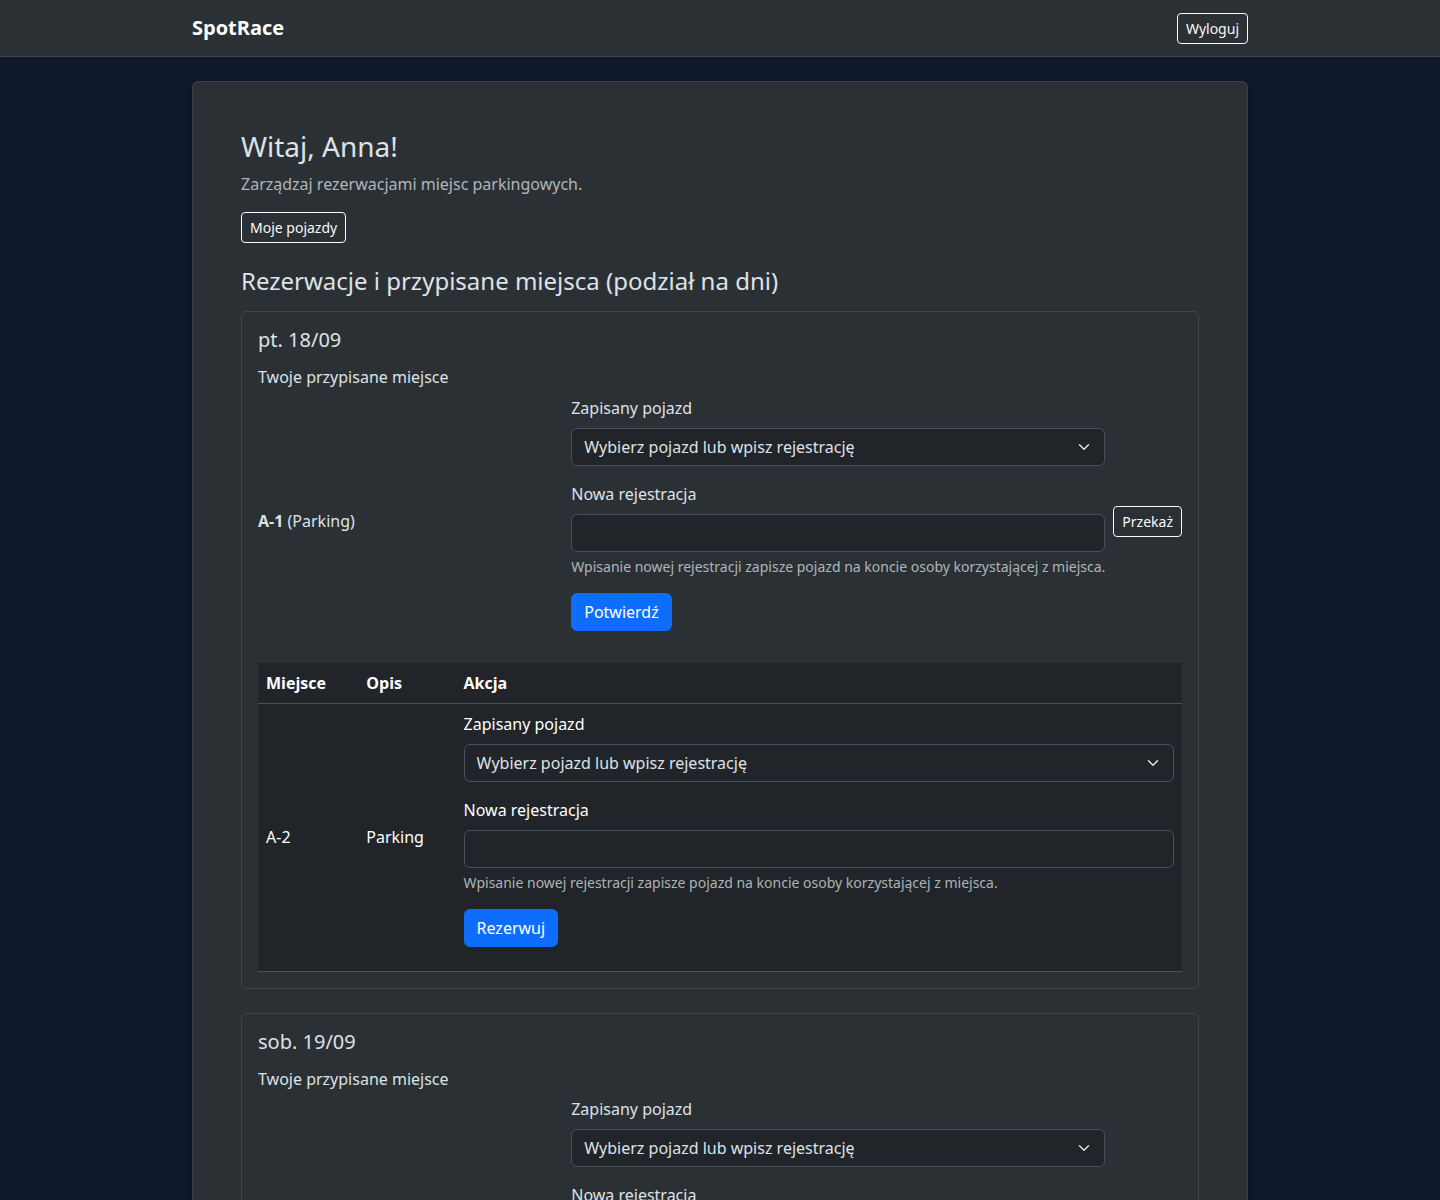
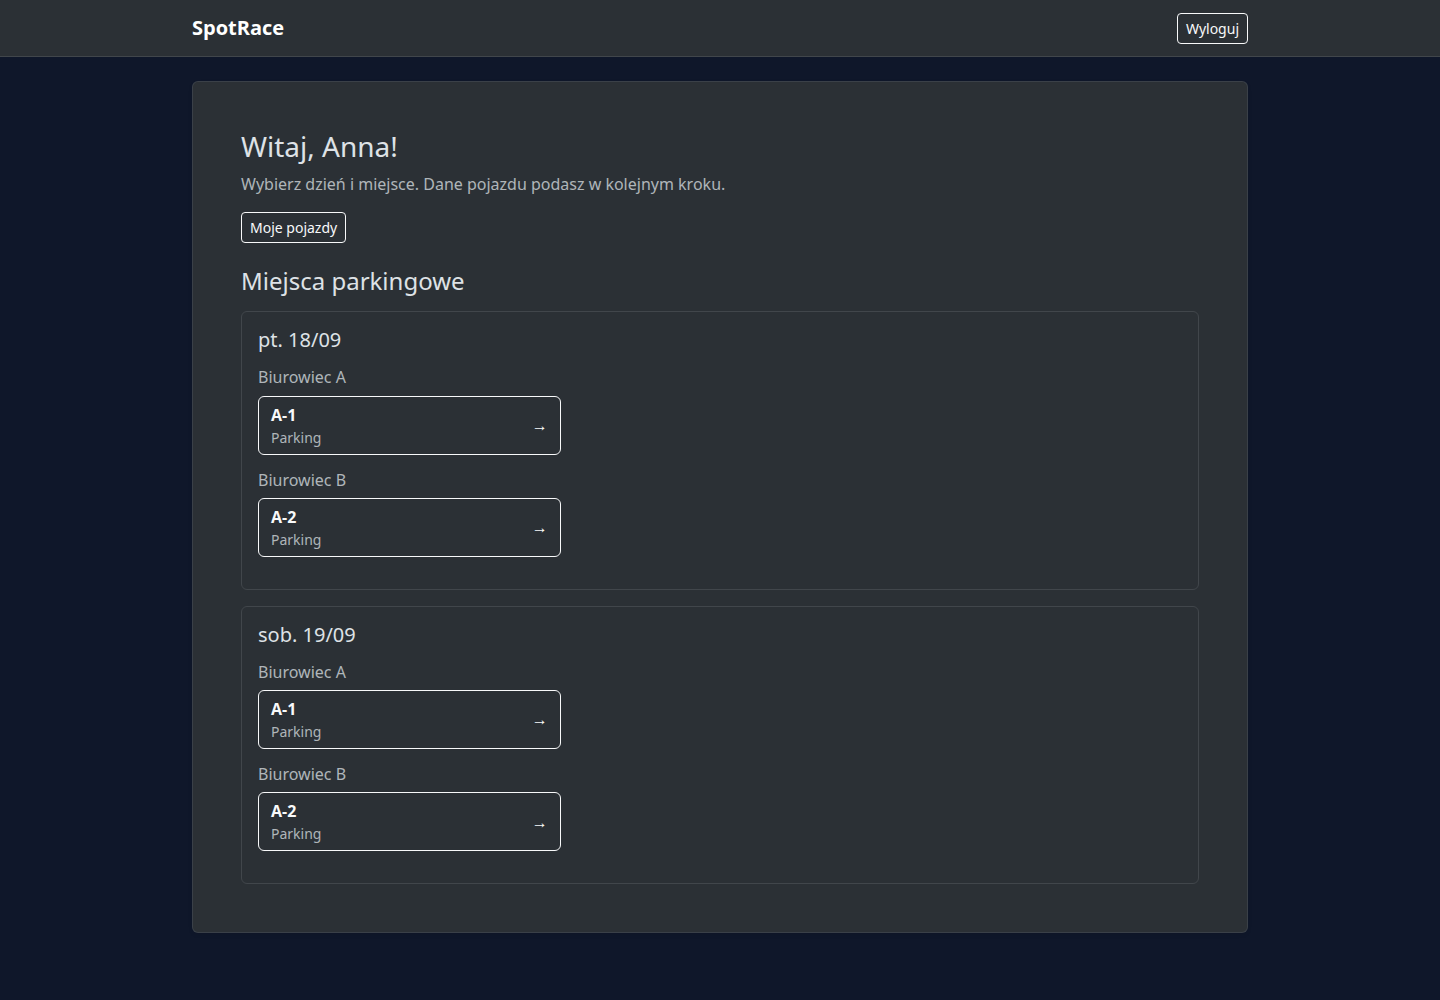
Umożliw rezerwację przypisanego miejsca po terminie

diff --git a/app/tests/Controller/ReservationControllerTest.php b/app/tests/Controller/ReservationControllerTest.php
@@ -6,6 +6,7 @@ use App\Entity\AppSetting;
 use App\Entity\Company;
 use App\Entity\CompanyParkingSpot;
 use App\Entity\CompanySetting;
+use App\Entity\ParkingLocation;
 use App\Entity\ParkingReservation;
 use App\Entity\ParkingSpot;
 use App\Entity\ParkingSpotAssignment;
@@ -176,7 +177,8 @@ class ReservationControllerTest extends WebTestCase
     {
         $own = $this->vehicle($this->user, 'OWN123');
         $other = $this->vehicle($this->recipient, 'OTHER123');
-        $values = $this->form('/reservations/free')->getPhpValues();
+        $freeForm = $this->form('/reservations/free');
+        $values = $freeForm->getPhpValues();
         foreach ([['vehicle_id' => $own->getId(), 'license_plate' => 'NEW123'], ['vehicle_id' => $other->getId()]] as $changes) {
             $this->client->request('POST', '/reservations/free', array_replace($values, $changes));
             self::assertResponseStatusCodeSame(422);
@@ -218,10 +220,11 @@ class ReservationControllerTest extends WebTestCase
 
     public function testOccupiedSpotAndExistingDailyReservationAreRechecked(): void
     {
-        $values = $this->form('/reservations/free')->getPhpValues();
+        $freeForm = $this->form('/reservations/free');
+        $values = $freeForm->getPhpValues();
         $second = $this->newSpot('A-2', $this->company);
         $this->em()->flush();
-        $this->client->submit($this->client->getCrawler()->selectButton('Rezerwuj')->form(), ['license_plate' => 'OWN123']);
+        $this->client->submit($freeForm, ['license_plate' => 'OWN123']);
         self::assertResponseRedirects();
         $this->client->request('POST', '/reservations/free', array_replace($values, ['spot_id' => $second->getId(), 'license_plate' => 'NEW123']));
         self::assertResponseStatusCodeSame(422);
@@ -231,6 +234,9 @@ class ReservationControllerTest extends WebTestCase
         $this->client->request('POST', '/reservations/free', array_replace($values, ['license_plate' => 'OTHER123']));
         self::assertResponseStatusCodeSame(422);
         self::assertSelectorTextContains('body', 'miejsce jest już zarezerwowane');
+        $this->client->request('GET', '/');
+        self::assertSelectorExists('.text-bg-danger');
+        self::assertSelectorTextContains('.text-bg-danger', 'Zarezerwowane');
         self::assertSame(1, $this->em()->getRepository(ParkingReservation::class)->count([]));
         self::assertSame(1, $this->em()->getRepository(Vehicle::class)->count([]));
     }
@@ -277,6 +283,9 @@ class ReservationControllerTest extends WebTestCase
         $this->client->request('POST', '/reservations/free', $values);
         self::assertResponseStatusCodeSame(422);
         self::assertSelectorTextContains('body', 'użyj potwierdzenia');
+        $this->client->request('GET', '/');
+        self::assertSelectorExists('.bg-primary-subtle');
+        self::assertSelectorTextContains('.bg-primary-subtle', 'przypisane');
         $this->client->loginUser($this->recipient);
         $this->client->request('POST', '/reservations/free', $values);
         self::assertResponseStatusCodeSame(422);
@@ -299,6 +308,21 @@ class ReservationControllerTest extends WebTestCase
         $this->client->submit($this->form('/reservations/free'));
         self::assertResponseRedirects();
         self::assertSame($this->recipient->getId(), $this->reservation()->getReservedForUser()->getId());
+    }
+
+    public function testAssignedOwnerCanReserveSpotAsFreeAfterCutoff(): void
+    {
+        $this->freezeTime('2026-09-18 07:00:00');
+        $this->assign($this->user);
+        $this->client->request('GET', '/');
+        self::assertSelectorNotExists('form[action="/reservations/confirm-assigned"] input[value="2026-09-18"]');
+        self::assertSelectorExists('form[action="/reservations/free"] input[value="2026-09-18"]');
+
+        $this->client->submit($this->form('/reservations/free'));
+
+        self::assertResponseRedirects();
+        self::assertSame('free', $this->reservation()->getType());
+        self::assertSame($this->user->getId(), $this->reservation()->getReservedForUser()->getId());
     }
 
     public function testLastAssignedDayIsAcceptedAndNextDayIsRejected(): void
@@ -370,8 +394,26 @@ class ReservationControllerTest extends WebTestCase
         }
         $this->em()->flush();
         $this->form('/reservations/free', '2026-09-21');
+        self::assertSelectorExists('#free-form-20260918_spot_id');
+        self::assertSelectorExists('[data-form-target="free-form-20260918"]');
         $ids = $this->client->getCrawler()->filter('input[id], select[id], button[id]')->extract(['id']);
         self::assertSame($ids, array_values(array_unique($ids)));
+    }
+
+    public function testCalendarGroupsSpotsByLocation(): void
+    {
+        $locationA = $this->location('Biurowiec A');
+        $locationB = $this->location('Biurowiec B');
+        $this->spot->setLocation($locationA);
+        $second = $this->newSpot('A-2', $this->company);
+        $second->setLocation($locationB);
+        $this->em()->flush();
+
+        $this->client->request('GET', '/');
+        self::assertSelectorTextContains('h4', 'Biurowiec A');
+        self::assertSelectorTextContains('body', 'A-1');
+        self::assertSelectorTextContains('body', 'A-2');
+        self::assertSelectorTextContains('body', 'Biurowiec B');
     }
 
     public function testEveryMutationRequiresPostCsrfAndAuthentication(): void
@@ -447,12 +489,29 @@ class ReservationControllerTest extends WebTestCase
         return $vehicle;
     }
 
+    private function location(string $name): ParkingLocation
+    {
+        $location = (new ParkingLocation())->setName($name);
+        $this->em()->persist($location);
+        $this->em()->flush();
+
+        return $location;
+    }
+
     private function form(string $action, string $date = '2026-09-18'): Form
     {
         $crawler = $this->client->request('GET', '/');
         self::assertResponseIsSuccessful();
 
-        return $crawler->filter('form[action="'.$action.'"]')->reduce(fn ($node) => $node->filter('input[name="date"]')->attr('value') === $date)->first()->form();
+        $form = $crawler->filter('form[action="'.$action.'"]')->reduce(fn ($node) => $node->filter('input[name="date"]')->attr('value') === $date)->first()->form();
+        if ('/reservations/free' === $action) {
+            $spot = $crawler->filter('[data-form-target="free-form-'.str_replace('-', '', $date).'"]')->first();
+            if ($spot->count()) {
+                $form->setValues(['spot_id' => $spot->attr('data-spot-id')]);
+            }
+        }
+
+        return $form;
     }
 
     private function reservation(string $date = '2026-09-18'): ParkingReservation

diff --git a/app/src/Service/ReservationCalendar.php b/app/src/Service/ReservationCalendar.php
@@ -85,18 +85,52 @@ class ReservationCalendar
             }
 
             $allSpots = array_values($companySpotsByDate[$dateKey] ?? []);
+            if ($assignment && !array_key_exists($assignment->getParkingSpot()->getId(), $companySpotsByDate[$dateKey] ?? [])) {
+                $allSpots[] = $assignment->getParkingSpot();
+            }
 
             if (!$isWithinFreeWindow && !$assignment && !$userReservation) {
                 continue;
             }
 
             $availableSpots = [];
-            if ($isWithinFreeWindow) {
-                $takenSpotIds = [];
-                foreach ($reservationsByDate[$dateKey] ?? [] as $reservation) {
-                    $takenSpotIds[$reservation->getParkingSpot()->getId()] = true;
-                }
+            $takenSpotIds = [];
+            foreach ($reservationsByDate[$dateKey] ?? [] as $reservation) {
+                $takenSpotIds[$reservation->getParkingSpot()->getId()] = true;
+            }
 
+            $assignedSpotIds = [];
+            foreach ($activeAssignmentsByDate[$dateKey] ?? [] as $activeAssignment) {
+                $assignedSpotIds[$activeAssignment->getParkingSpot()->getId()] = true;
+            }
+
+            $spotStatuses = [];
+            foreach ($allSpots as $spot) {
+                $spotId = $spot->getId();
+                if ($assignment?->getParkingSpot()->getId() === $spotId) {
+                    $spotStatuses[$spotId] = $this->policy->isAssignmentLockedForOthers($date, $company) ? 'assigned_own' : 'assigned_available';
+                } elseif (isset($takenSpotIds[$spotId])) {
+                    $spotStatuses[$spotId] = 'reserved';
+                } elseif (isset($assignedSpotIds[$spotId])) {
+                    $spotStatuses[$spotId] = $this->policy->isAssignmentLockedForOthers($date, $company) ? 'assigned' : 'assigned_available';
+                } else {
+                    $spotStatuses[$spotId] = 'available';
+                }
+            }
+
+            $locationsByKey = [];
+            foreach ($allSpots as $spot) {
+                $location = $spot->getLocation();
+                $locationKey = $location?->getId() ?? 'without-location';
+                $locationsByKey[$locationKey] ??= [
+                    'name' => $location?->getName() ?? 'Bez lokalizacji',
+                    'spots' => [],
+                ];
+                $locationsByKey[$locationKey]['spots'][] = $spot;
+            }
+            uasort($locationsByKey, static fn (array $left, array $right): int => strnatcasecmp($left['name'], $right['name']));
+
+            if ($isWithinFreeWindow) {
                 $lockedSpotIds = [];
                 foreach ($activeAssignmentsByDate[$dateKey] ?? [] as $activeAssignment) {
                     $spotId = $activeAssignment->getParkingSpot()->getId();
@@ -106,7 +140,8 @@ class ReservationCalendar
                 }
 
                 foreach ($allSpots as $spot) {
-                    if (isset($takenSpotIds[$spot->getId()]) || isset($lockedSpotIds[$spot->getId()]) || $assignment?->getParkingSpot()->getId() === $spot->getId()) {
+                    $isOwnAssignedSpot = $assignment?->getParkingSpot()->getId() === $spot->getId();
+                    if (isset($takenSpotIds[$spot->getId()]) || isset($lockedSpotIds[$spot->getId()]) || ($isOwnAssignedSpot && $this->policy->isAssignmentLockedForOthers($date, $company))) {
                         continue;
                     }
                     $availableSpots[] = $spot;
@@ -124,6 +159,9 @@ class ReservationCalendar
                 'canReserveFree' => $isWithinFreeWindow && !$userReservation,
                 'canReleaseReservation' => $userReservation && $this->policy->canReleaseReservation($date, $company),
                 'availableSpots' => $availableSpots,
+                'spots' => $allSpots,
+                'locations' => array_values($locationsByKey),
+                'spotStatuses' => $spotStatuses,
             ];
         }
 

diff --git a/app/src/Controller/HomeController.php b/app/src/Controller/HomeController.php
@@ -25,18 +25,13 @@ class HomeController extends AbstractController
             $data = new ReservationData();
             $data->date = $day['date']->format('Y-m-d');
             if ($day['canManageAssigned']) {
-                $day['confirmForm'] = $forms->view($forms->create(ConfirmReservationType::class, $user, clone $data, $vehicles), 'confirm_'.$data->date);
+                $day['confirmForm'] = $forms->view($forms->create(ConfirmReservationType::class, $user, clone $data, $vehicles), 'confirm-form-'.str_replace('-', '', $data->date));
             }
             if ($day['canReleaseReservation']) {
                 $day['releaseForm'] = $forms->view($forms->create(ReleaseReservationType::class, $user, clone $data), 'release_'.$data->date);
             }
-            $day['freeForms'] = [];
-            if ($day['canReserveFree']) {
-                foreach ($day['availableSpots'] as $spot) {
-                    $spotData = clone $data;
-                    $spotData->spotId = $spot->getId();
-                    $day['freeForms'][$spot->getId()] = $forms->view($forms->create(FreeReservationType::class, $user, $spotData, $vehicles), 'free_'.$data->date.'_'.$spot->getId());
-                }
+            if ($day['canReserveFree'] && [] !== $day['availableSpots']) {
+                $day['freeForm'] = $forms->view($forms->create(FreeReservationType::class, $user, clone $data, $vehicles), 'free-form-'.str_replace('-', '', $data->date));
             }
         }
         unset($day);

diff --git a/app/src/Form/ReservationVehicleType.php b/app/src/Form/ReservationVehicleType.php
@@ -30,7 +30,7 @@ class ReservationVehicleType extends AbstractType
                 'property_path' => 'vehicleId',
                 'label' => 'Zapisany pojazd',
                 'choices' => $options['vehicle_choices'],
-                'placeholder' => 'Wybierz pojazd lub wpisz rejestrację',
+                'placeholder' => false,
                 'required' => false,
                 'invalid_message' => 'Nieprawidłowy pojazd.',
             ])
@@ -53,7 +53,13 @@ class ReservationVehicleType extends AbstractType
                 return;
             }
             $hasPlate = '' !== trim($data->licensePlate ?? '');
-            if ($data->vehicleId && $hasPlate) {
+            $otherVehicle = '__other__' === $data->vehicleId;
+            if ($otherVehicle) {
+                $data->vehicleId = null;
+            }
+            if ($otherVehicle && !$hasPlate) {
+                $event->getForm()->addError(new \Symfony\Component\Form\FormError('Podaj numer nowego pojazdu.'));
+            } elseif ($data->vehicleId && $hasPlate) {
                 $event->getForm()->addError(new \Symfony\Component\Form\FormError('Wybierz zapisany pojazd albo wpisz nową rejestrację.'));
             } elseif ($options['plate_required'] && !$data->vehicleId && !$hasPlate) {
                 $event->getForm()->addError(new \Symfony\Component\Form\FormError('Podaj numer rejestracyjny przed zapisaniem rezerwacji.'));

diff --git a/app/src/Service/ReservationManager.php b/app/src/Service/ReservationManager.php
@@ -46,7 +46,7 @@ class ReservationManager
         $this->assertSpotInCompany($spot, $company, $date);
         $this->assertAvailable($spot, $user, $date);
         $assignment = $this->assignments->findUserAssignmentForDate($user, $date);
-        if ($assignment && $assignment->getParkingSpot()->getId() === $spot->getId()) {
+        if ($assignment && $assignment->getParkingSpot()->getId() === $spot->getId() && $this->policy->isAssignmentLockedForOthers($date, $company)) {
             throw new \DomainException('Dla przypisanego miejsca użyj potwierdzenia lub przekazania miejsca.');
         }
         foreach ($this->assignments->findActiveForDate($date) as $active) {

diff --git a/app/src/Form/ReservationFormFactory.php b/app/src/Form/ReservationFormFactory.php
@@ -57,7 +57,7 @@ class ReservationFormFactory
     /** @return array<string, string> */
     public function vehicleChoices(User $actor, bool $delegating = false): array
     {
-        $choices = [];
+        $choices = ['Bez rejestracji' => ''];
         $vehicles = $delegating
             ? ($actor->getCompany() ? $this->vehicles->findByCompany($actor->getCompany()) : [])
             : $this->vehicles->findByOwner($actor);
@@ -68,6 +68,7 @@ class ReservationFormFactory
             }
             $choices[$label] = $vehicle->getId();
         }
+        $choices['Inny'] = '__other__';
 
         return $choices;
     }

diff --git a/app/src/Repository/CompanyParkingSpotRepository.php b/app/src/Repository/CompanyParkingSpotRepository.php
@@ -51,8 +51,9 @@ class CompanyParkingSpotRepository extends ServiceEntityRepository
     public function findActiveForCompanyInRange(Company $company, \DateTimeImmutable $startsAt, \DateTimeImmutable $endsAt): array
     {
         return $this->createQueryBuilder('cps')
-            ->addSelect('s')
+            ->addSelect('s', 'l')
             ->join('cps.parkingSpot', 's')
+            ->leftJoin('s.location', 'l')
             ->andWhere('cps.company = :company')
             ->andWhere('cps.startsAt <= :endsAt')
             ->andWhere('cps.endsAt IS NULL OR cps.endsAt >= :startsAt')

diff --git a/docs/rezerwacje-miejsc.md b/docs/rezerwacje-miejsc.md
@@ -12,6 +12,7 @@
    - potwierdzić swoje miejsce (dla dziś i w skonfigurowanym oknie, domyślnie do 7 dni w przód),
    - przekazać swoje miejsce innej osobie z firmy (w tym samym oknie).
 6. Dla dnia bieżącego przypisane miejsce jest zablokowane dla innych użytkowników tej samej firmy do skonfigurowanej godziny granicznej, domyślnie 07:00.
+   Po tej godzinie przypisana osoba traci pierwszeństwo, ale może zarezerwować to miejsce jak każde inne wolne miejsce.
 7. Zwykły użytkownik może rezerwować wolne miejsca swojej firmy na dowolny dzień w oknie skonfigurowanym globalnie albo nadpisanym dla firmy.
 8. Jedna osoba może mieć maksymalnie jedną rezerwację dziennie.
 9. Nie można zarezerwować miejsca już zarezerwowanego.
@@ -97,7 +98,8 @@ Rezerwacja przechowuje niezależny tekstowy snapshot tablicy (`licensePlate`, op
 
 ## Obsługa formularzy i podział odpowiedzialności
 
-- `HomeController` wyświetla kalendarz przygotowany przez `ReservationCalendar`. Kalendarz obejmuje oba skonfigurowane okna rezerwacji. Własne przypisane miejsce obsługuje się przez potwierdzenie lub przekazanie.
+- `HomeController` wyświetla kalendarz przygotowany przez `ReservationCalendar`. Kalendarz obejmuje oba skonfigurowane okna rezerwacji. Własne przypisane miejsce obsługuje się przez potwierdzenie lub przekazanie przed godziną graniczną, a po jej upływie przez zwykłą rezerwację wolnego miejsca.
+- Kalendarz pokazuje dni, a w każdym dniu miejsca pogrupowane według lokalizacji. Po wybraniu miejsca otwiera się modal z listą zapisanych pojazdów; opcja „Inny” odsłania dopiero pole nowej rejestracji.
 - `ReservationController` obsługuje formularze Symfony dla rezerwacji wolnego miejsca, potwierdzania, przekazywania i zwalniania. Adresy i metody HTTP pozostają bez zmian.
 - Formularze sprawdzają CSRF, poprawność daty, wybór użytkownika i pojazdu oraz dane rejestracji. Przy błędzie odpowiedź ma status 422 i zawiera formularz z zachowanymi danymi i komunikatami. Nieprawidłową ukrytą datę lub miejsce należy wybrać ponownie z kalendarza.
 - `ReservationManager` ponownie sprawdza reguły przy zapisie: firmę miejsca w danym dniu, przypisanie, okna czasowe, zajętość miejsca, rezerwację odbiorcy i własność pojazdu. Dotyczy to również formularzy otwartych przed zmianą dostępności lub transferem miejsca.
